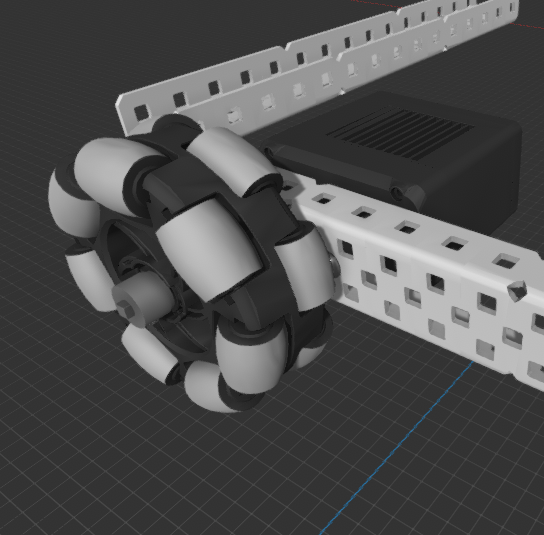
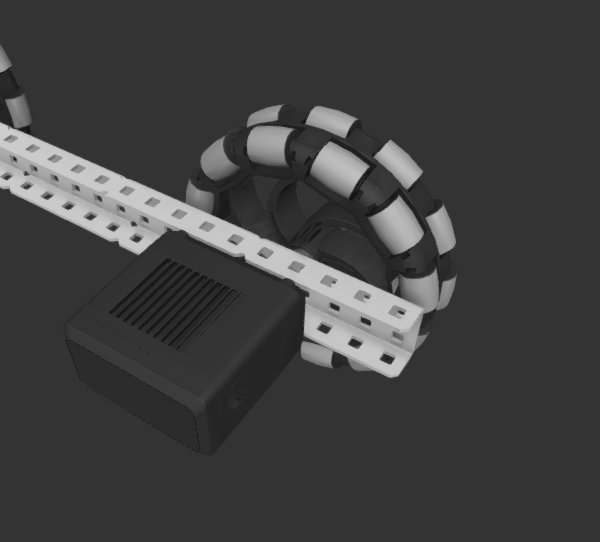
Finish drivetrain build activity

diff --git a/items/building/2-drivetrain.md b/items/building/2-drivetrain.md
@@ -6,6 +6,7 @@ description = "In this module, we build a 2 wheel drive, tank-style drivetrain. 
 ## What you will build
 
 The final product will look something like this:
+![final drivetrain](2-0-1.png)
 
 ## Step 1
 
@@ -16,8 +17,9 @@ Gather the necessary parts:
 - VEX Controller
 - VEX Radio
 - VEX Wires (x4)
-- decently long C-channels (at least 20 holes long) (x2)
+- decently long C-channels (at least 25 holes long) (x2)
 - other C-channels (at least 15 holes long) (x2)
+- a 5-wide (at least 15 holes long, same length as the "other C-channels" above)
 - battery and battery cable
 - toolbox
   - flat bearing
@@ -27,25 +29,49 @@ Gather the necessary parts:
 ### Note: C Channels
 
 C channels have grooves on the sides that indicate a group of 5 holes. This way, you can quickly count 4 grooves = 4\*5 holes = 20 holes instead of counting each hole individually.
-![](./2-1-1.png)
+![15 hole C channel with every 5 holes marked](./2-1-1.png)
 
 For this activity, make sure you have two pairs of C-channels with the same length. (You will eventually make a rectangular structure for the drivetrain)
 
 ## Step 2
 
 Attach a motor to one of the longer C channels. Place an omniwheel on this motor. You can follow the instructions in the previous module titled "Putting on a Motor". Be sure to leave enough space for a future structural element.
-![](./2-2-1.png)
+![motor with axle on C channel](./2-2-1.png)
 As in the picture above, your motor axle should be at least the 4th hole from the last center hole. You will eventually place a perpendicular C-channel with the extra space you leave (see image below).
-![](./2-2-2.png)
+![motor with axle on C channel connected to another C channel](./2-2-2.png)
 Remember to place an omniwheel on the axle (not a small traction wheel).
-![](./2-2-3.png)
+![motor on C channle with omniwheel](./2-2-3.png)
 
 ## Step 3
 
 Place another wheel on the same C channel. Remember that the motor axle should be at least the 4th hole from the last center hole on the C channel.
-![](./2-3-1.png)
-![](./2-3-2.png)
+![two axles on the 4th hole away from both edges](./2-3-1.png)
+![two wheels on the same C channel - front view](./2-3-2.png)
+![two wheels on the same C channel - 3D view](./2-3-3.png)
 
 ## Step 4
 
 Make another set of wheels. You will connect these two sets in the next step.
+![two C channels; each C channel with 2 motor-powered wheels](./2-4-1.png)
+
+## Step 5
+
+Connect the two sets of wheels with C channels. The connecting C channels should be at least 15 holes wide.
+![4 motors connected with 2 C channels](./2-5-1.png)
+
+## Step 6
+
+Now, we can place the CORTEX on the robot. Find a 5-wide C-channel at least as long as the connecting pieces you attached in the last step. Connect the CORTEX to the 5-wide with 4 screws.
+![robot brain screwed to 5 wide C channel](./2-6-1.png)
+
+## Step 7
+
+Screw 4 standoffs to the bottom of the 5-wide. The standoffs enable the CORTEX to face upward instead of downward when the CORTEX is connected to the robot.
+![robot brain screwed to 5 wide C channel with 4 standoffs on each corner](./2-7-1.png)
+
+## Step 8
+
+Screw this 5 channel to the robot.
+![final drivetrain, top view](./2-8-1.png)
+The below picture is taken from the robot's underside.
+![final drivetrain, bottom view](./2-8-2.png)
